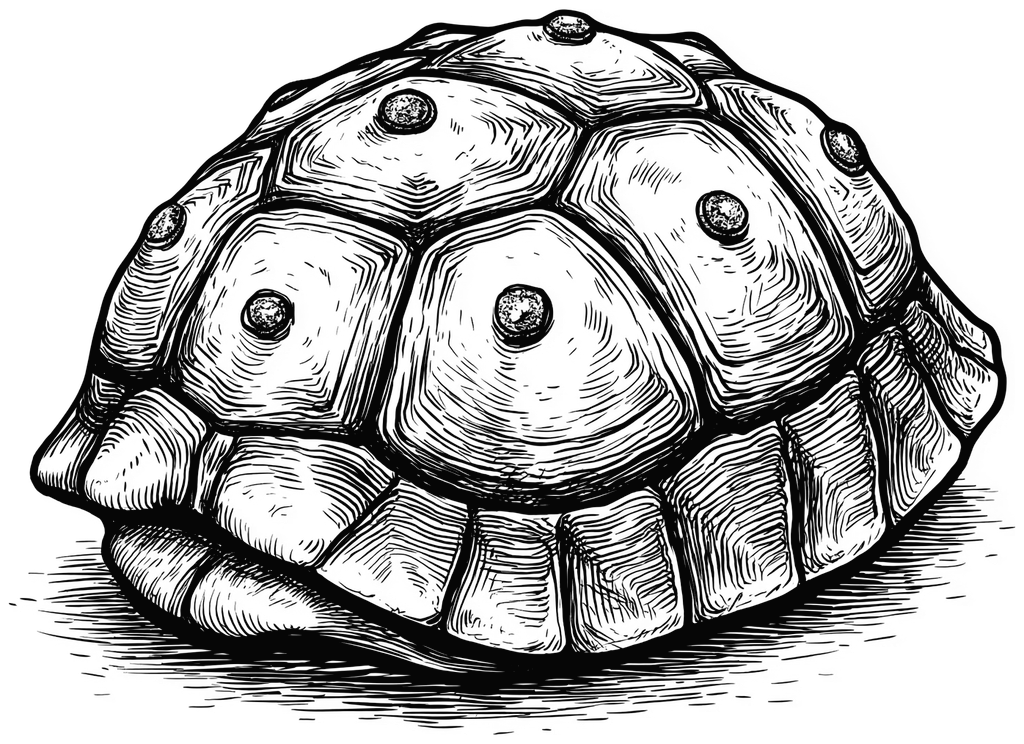
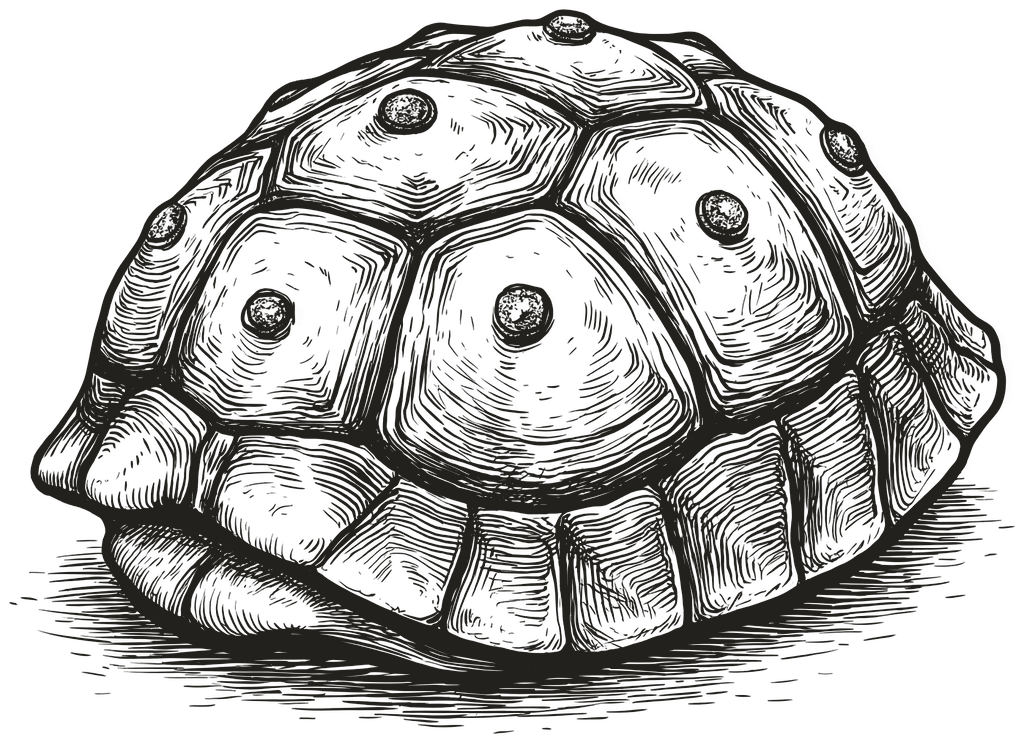
La cité ruinée, et la bavure grise ôtée des six gravures
LA BAVURE. Elle n'était pas normale, et elle venait de moi. Le script
maison tire l'alpha d'une amplitude fondée sur la MÉDIANE de l'encre de
la planche — 111 pour les colonnades, 68 pour la tour. C'est juste tant
qu'on garde l'encre décomposée, comme il le fait. Mais je reposais
ensuite une encre bien plus sombre, à 33 : les deux ne s'accordaient
plus, et tout le dégradé qui borde un trait s'assombrissait d'autant. Un
gris à 180 rendait 136, un gris à 140 rendait 76. C'est ce halo que l'œil
lit comme une bavure.

L'alpha se calcule désormais sur l'encre REPOSÉE. Mesuré sur la tour,
l'écart moyen au dessin d'origine tombe de plusieurs dizaines de niveaux
à UN. Les six planches du jour sont refaites par une chaîne unique :
pourtour rogné, papier ramené au blanc d'après son niveau dominant,
détourage, encre unique à la luminance 33.

LA CITÉ. Elle remplace les colonnades, qui passent en réserve après une
demi-journée. Une cité basse sur un horizon vide, sa fumée seule montant
dans le blanc : l'encre franche n'occupe que 1 510 sur 397 d'un cadre de
1 600 sur 1 194, et ce vide EST le propos. Elle prend donc toute la
mesure de la colonne.

La marge NÉGATIVE sous la gravure revient, pour la raison qui l'avait
fait naître : le quart inférieur du cadre est un sol presque vide, et le
texte doit se poser à la lisière du sol. Elle avait dû être ôtée le temps
des colonnades, qui descendaient au ras des pierres. Une marge négative
[…]

Changed region(s): [[0.0312, 0.0, 1.0, 0.9596]]

diff --git a/app/admin/illustrations/inventaire.ts b/app/admin/illustrations/inventaire.ts
@@ -119,7 +119,7 @@ export const ILLUSTRATIONS: Illustration[] = [
     lieu: { href: '/recherche', label: 'Recherche', repere: 'Au centre, sous la barre de recherche, tant qu’aucune requête n’est lancée.' },
     source: 'app/recherche/RechercheClient.tsx',
     traitement: { opacite: 0.92, ornement: true, largeur: 'au plus 51rem et 96 %, bornée en hauteur' },
-    note: 'A remplacé les cristaux le 2026-08-26. Elle reprend la pose de la tour de Babel sur le Polyglotte, et pour la même raison : sur PC cette colonne fait TOUTE la hauteur sous la navbar et se trouve entièrement vide, l’intitulé, la recherche et les onglets vivant dans le volet de gauche. C’est donc un écran d’attente et non un blanc de pied de page — même mesure, même opacité, même encre, même invite en sérif italique. Posée d’abord comme un cul-de-lampe discret en haut de la colonne, elle y flottait. ⚠ Le centrage vertical vient du flux, la zone étant de hauteur définie sur PC ; en mobile elle ne l’est pas et le groupe reprend des marges. Deux reprises sur l’ancienne pose : le mix-blend-mode était mort, la planche étant détourée, et la largeur de 300 px, absolue, ne suivait pas la police racine.',
+    note: 'A remplacé les cristaux. Elle reprend la pose de la tour de Babel sur le Polyglotte, et pour la même raison : sur PC cette colonne fait TOUTE la hauteur sous la navbar et se trouve entièrement vide, l’intitulé, la recherche et les onglets vivant dans le volet de gauche. C’est donc un écran d’attente et non un blanc de pied de page — même mesure, même opacité, même encre, même invite en sérif italique. ⚠ Le centrage vertical vient du flux, la zone étant de hauteur définie sur PC ; en mobile elle ne l’est pas et le groupe reprend des marges. Fabriquée par la chaîne commune aux gravures du 2026-08-26 : pourtour de la source rogné, papier ramené au blanc d’après son niveau DOMINANT, détourage, puis encre reposée en une teinte unique à la luminance 33, celle de la tour de Babel ruinée. ⚠ L’ALPHA se calcule sur l’encre REPOSÉE, non sur la médiane de la planche : les deux ne s’accordent plus dès qu’on repose une encre plus sombre, et tout le dégradé qui borde un trait s’assombrit alors — un gris à 180 rendait 136. Écart moyen au dessin d’origine ramené à 1 niveau.',
   },
 
   {
@@ -140,7 +140,7 @@ export const ILLUSTRATIONS: Illustration[] = [
     lieu: { href: '/oeuvre/A0010O0002', label: 'La Cité de Dieu', repere: 'Volet de droite, après avoir cliqué un paragraphe dépourvu de référence biblique.' },
     source: 'app/oeuvre/[id]/OeuvreClient.tsx',
     traitement: { opacite: 0.42, ornement: true, largeur: 'au plus 24rem et 88 %, bornée en hauteur' },
-    note: 'Répond à l’arbre ardent du même volet, dont elle reprend la planche, la mesure et l’opacité : les deux états du volet se ressemblent au lieu de se contredire. L’arbre est ici mort et le corbeau seul — l’absence se dit par l’image avant de se dire par la phrase. Le plafond de hauteur réserve 13,5 rem au lieu de 11,5 : le bouton de proposition se pose sous l’invite et sortirait de l’écran sur une fenêtre basse. Détourée par le script maison : encre médiane mesurée à 110, 10,4 % de pleins — le même taux que l’arbre ardent, ce qui n’est pas un hasard, les deux planches étant de la même main.',
+    note: 'Répond à l’arbre ardent du même volet, dont elle reprend la mesure : les deux états du volet se ressemblent au lieu de se contredire. L’arbre est ici mort et le corbeau seul — l’absence se dit par l’image avant de se dire par la phrase. Le plafond de hauteur réserve 13,5 rem au lieu de 11,5 : le bouton de proposition se pose sous l’invite et sortirait de l’écran sur une fenêtre basse. Fabriquée par la chaîne commune aux gravures du 2026-08-26 : pourtour de la source rogné, papier ramené au blanc d’après son niveau DOMINANT, détourage, puis encre reposée en une teinte unique à la luminance 33, celle de la tour de Babel ruinée. ⚠ L’ALPHA se calcule sur l’encre REPOSÉE, non sur la médiane de la planche : les deux ne s’accordent plus dès qu’on repose une encre plus sombre, et tout le dégradé qui borde un trait s’assombrit alors — un gris à 180 rendait 136. Écart moyen au dessin d’origine ramené à 1 niveau.',
   },
   {
     chemin: '/ornements/carapace-posee.png',
@@ -150,19 +150,20 @@ export const ILLUSTRATIONS: Illustration[] = [
     lieu: { href: '/?livre=NUM&chapitre=7&trad=TR0001', label: 'Nombres 7', repere: 'Volet des Pères, à droite. Ce chapitre est le plus long du corpus à n’avoir reçu aucun apparat : la gravure y tient seule la colonne.' },
     source: 'app/components/PanneauPatristique.tsx',
     traitement: { opacite: 0.42, ornement: true, largeur: 'au plus 20rem et 82 %, bornée en hauteur' },
-    note: 'Trois poses, une seule planche depuis le 2026-08-26 : les deux volets de commentaires — celui de la Bible et celui d’une œuvre, ce dernier dans app/oeuvre/[id]/OngletCommentaires.tsx — et le « Aucune occurrence » de l’apparat. Elle a remplacé la carapace couchée, qui disait la même absence sous un autre dessin selon la page où l’on se trouvait. Dans les deux volets de commentaires elle se pose au MILIEU de la zone défilante, en largeur comme en hauteur ; cette hauteur vient du flux, la zone étant déjà « flex: 1 », et non d’un calcul sur la fenêtre qui devrait deviner celle du formulaire. Sur « Aucune occurrence » elle reste dans le flux, sous les sous-onglets. Deux reprises au passage : le mix-blend-mode de la pose ancienne était mort, la planche étant détourée et l’opacité posée sur la même image annulant le mélange ; et sa largeur de 168 px, absolue, ne suivait pas la police racine, donc la gravure rapetissait à mesure que l’écran s’agrandissait. Détourée par le script maison : encre médiane mesurée à 15, donc gravure au trait franc, 21,8 % de pleins, encre reposée à la luminance 6, presque noire, parce que la décomposition par pixel vire au bruit sur un papier blanc pur. Le volet biblique la servait à 0,46 : les trois poses sont unifiées à 0,42, l’encre de cette planche étant bien plus dense que celle des gravures voisines.',
+    note: 'Trois poses, une seule planche : les deux volets de commentaires — celui de la Bible et celui d’une œuvre, ce dernier dans app/oeuvre/[id]/OngletCommentaires.tsx — et le « Aucune occurrence » de l’apparat. Elle a remplacé la carapace couchée, qui disait la même absence sous un autre dessin selon la page où l’on se trouvait. Dans les deux volets de commentaires elle se pose au MILIEU de la zone défilante, en largeur comme en hauteur ; cette hauteur vient du flux, la zone étant déjà « flex: 1 ». Sur « Aucune occurrence » elle reste dans le flux, sous les sous-onglets. Fabriquée par la chaîne commune aux gravures du 2026-08-26 : pourtour de la source rogné, papier ramené au blanc d’après son niveau DOMINANT, détourage, puis encre reposée en une teinte unique à la luminance 33, celle de la tour de Babel ruinée. ⚠ L’ALPHA se calcule sur l’encre REPOSÉE, non sur la médiane de la planche : les deux ne s’accordent plus dès qu’on repose une encre plus sombre, et tout le dégradé qui borde un trait s’assombrit alors — un gris à 180 rendait 136. Écart moyen au dessin d’origine ramené à 1 niveau.',
   },
 
   {
-    chemin: '/ornements/ruines-colonnades.png',
-    nom: 'Ruines fumantes',
+    chemin: '/ornements/cite-ruinee.png',
+    nom: 'Cité ruinée',
     fonction: 'blanc',
     emploi: 'Dit qu’une traduction ne comporte pas le livre demandé. Des ruines plutôt qu’un fleuron : l’ornement devait dire « il n’y a rien ici », non « fin de chapitre ».',
     lieu: { href: '/?livre=MAT&chapitre=1&trad=TR0005', label: 'Matthieu 1 dans la Septante', repere: 'Au tiers supérieur de la colonne de lecture : la Septante ne comporte aucun livre du Nouveau Testament.' },
     source: 'app/components/TexteBible.tsx',
-    traitement: { opacite: 0.92, ornement: true, largeur: 'au plus 34rem et 92 %, bornée en hauteur' },
-    note: 'A remplacé la planche carrée le 2026-08-26. Mesure, intensité et encre sont celles de la tour de Babel sur le Polyglotte : c’est un écran d’attente, non un blanc de pied de page, et la gravure doit s’y voir. ⚠ La légende reste au TIERS SUPÉRIEUR du bloc (charte) et non centrée dans le vide : c’est la seule chose que cette pose ne reprenne pas du Polyglotte. Elle a aussi perdu la marge NÉGATIVE qui la remontait, laquelle n’existait que parce que la planche carrée laissait du blanc sous des ruines posées haut. ⛔ Trois reprises que la charte réclamait : la pose passait par Image de Next, dont l’optimiseur aplatit parfois l’alpha sur du blanc et fait reparaître le fond ; le mix-blend-mode était mort, la planche étant détourée ; et la largeur de 190 px, absolue, ne suivait pas la police racine.',
+    traitement: { opacite: 0.92, ornement: true, largeur: 'au plus 38rem et 96 %, bornée en hauteur' },
+    note: 'Une cité basse sur un horizon vide, sa fumée seule montant dans le blanc : l’encre franche n’occupe que 1 510 sur 397 d’un cadre de 1 600 sur 1 194, et ce vide EST le propos. La marge négative sous la gravure revient pour cette raison, le quart inférieur du cadre étant un sol presque vide : le texte se pose à la lisière du sol plutôt que loin sous la planche. ⚠ Une marge négative se règle sur la COMPOSITION et ne se reconduit pas d’un dessin à l’autre — la planche intermédiaire de colonnades descendait au ras des pierres et l’avait fait ôter. ⛔ Trois reprises que la charte réclamait sur cette pose : elle passait par Image de Next, dont l’optimiseur aplatit parfois l’alpha sur du blanc et fait reparaître le fond ; le mix-blend-mode était mort, la planche étant détourée ; et la largeur de 190 px, absolue, ne suivait pas la police racine. Fabriquée par la chaîne commune aux gravures du 2026-08-26 : pourtour de la source rogné, papier ramené au blanc d’après son niveau DOMINANT, détourage, puis encre reposée en une teinte unique à la luminance 33, l’ALPHA étant calculé sur cette encre et non sur la médiane de la planche. Profil de gravure au trait : 87,1 % de transparents pour 11,1 % de partiels.',
   },
+
 
   {
     chemin: '/ornements/ordinateur-ardent.png',
@@ -172,7 +173,7 @@ export const ILLUSTRATIONS: Illustration[] = [
     lieu: { href: '/polyglotte', label: 'Polyglotte', repere: 'En pied du message, sur un écran de moins de 820 px de large. À voir en réduisant la fenêtre.' },
     source: 'app/polyglotte/page.tsx',
     traitement: { opacite: 0.92, ornement: true, largeur: 'au plus 16rem et 76 %, bornée en hauteur' },
-    note: 'A remplacé l’ordinateur de Pentecôte le 2026-08-26. Même propos : l’ordinateur sous les langues de feu, l’alpha et l’oméga sur le moniteur, la Polyglotte dite en une image. Intensité et encre sont celles de la tour de Babel, à l’autre bout de la même page : cet écran n’a lui non plus qu’une gravure pour tout contenu. ⚠ La planche est en HAUTEUR là où la précédente était en largeur, d’où un plafond de hauteur qui n’est pas décoratif : sur un téléphone bas, elle chasserait le texte hors de l’écran. Pourtour de la source rogné de 32 px avant traitement, faute de quoi le liseré sombre du bord devient une barre noire. Encre reposée à la luminance 33, contre 48 pour la planche brute. Elle pèse 278 Ko contre 530.',
+    note: 'A remplacé l’ordinateur de Pentecôte. Même propos : l’ordinateur sous les langues de feu, l’alpha et l’oméga sur le moniteur, la Polyglotte dite en une image. Intensité et encre sont celles de la tour de Babel, à l’autre bout de la même page : cet écran n’a lui non plus qu’une gravure pour tout contenu. ⚠ La planche est en HAUTEUR là où la précédente était en largeur, d’où un plafond de hauteur qui n’est pas décoratif : sur un téléphone bas, elle chasserait le texte hors de l’écran. Fabriquée par la chaîne commune aux gravures du 2026-08-26 : pourtour de la source rogné, papier ramené au blanc d’après son niveau DOMINANT, détourage, puis encre reposée en une teinte unique à la luminance 33, celle de la tour de Babel ruinée. ⚠ L’ALPHA se calcule sur l’encre REPOSÉE, non sur la médiane de la planche : les deux ne s’accordent plus dès qu’on repose une encre plus sombre, et tout le dégradé qui borde un trait s’assombrit alors — un gris à 180 rendait 136. Écart moyen au dessin d’origine ramené à 1 niveau.',
   },
 
 
@@ -185,7 +186,7 @@ export const ILLUSTRATIONS: Illustration[] = [
     lieu: { href: '/polyglotte', label: 'Polyglotte', repere: 'Au centre, tant qu’aucun livre n’est ouvert, sous l’invite « Ouvrez un livre ».' },
     source: 'app/polyglotte/page.tsx',
     traitement: { opacite: 0.92, ornement: true, largeur: 'au plus 51rem et 96 %, bornée en hauteur' },
-    note: 'A remplacé la tour intacte le 2026-08-26, sans que la pose change : deux maxima, aucune largeur posée. Elle pèse 406 Ko là où la précédente en pesait 2 114, qui était la plus lourde image servie du site, pour un simple écran d’attente. ⚠ Son détourage a demandé une normalisation préalable du papier : celui de cette planche est à 253, et ses seuls quatre COINS sont à 255 — or c’est aux coins que le script maison mesure le fond. Il tenait donc les 91 % de papier pour une encre très pâle, et rendait 87,8 % de partiels pour 6 % de transparents. Papier ramené au blanc avant détourage, elle rend 81,7 % de transparents pour 12,1 % de partiels, dans la bande de la gravure au trait. Encre mesurée et reposée à la luminance 33.',
+    note: 'A remplacé la tour intacte, sans que la pose change : deux maxima, aucune largeur posée. Elle pèse le quart des 2 114 Ko de la précédente, qui était la plus lourde image servie du site pour un simple écran d’attente. Fabriquée par la chaîne commune aux gravures du 2026-08-26 : pourtour de la source rogné, papier ramené au blanc d’après son niveau DOMINANT, détourage, puis encre reposée en une teinte unique à la luminance 33, celle de la tour de Babel ruinée. ⚠ L’ALPHA se calcule sur l’encre REPOSÉE, non sur la médiane de la planche : les deux ne s’accordent plus dès qu’on repose une encre plus sombre, et tout le dégradé qui borde un trait s’assombrit alors — un gris à 180 rendait 136. Écart moyen au dessin d’origine ramené à 1 niveau.',
   },
 
   {
@@ -416,6 +417,12 @@ export const ILLUSTRATIONS: Illustration[] = [
     nom: 'Ordinateur de Pentecôte',
     fonction: 'reserve',
     emploi: 'Fermait le message d’écran large de la Polyglotte jusqu’au 2026-08-26, où l’ordinateur ardent a pris sa place.',
+  },
+  {
+    chemin: '/ornements/ruines-colonnades.png',
+    nom: 'Colonnades en ruine',
+    fonction: 'reserve',
+    emploi: 'Disait le livre absent d’une traduction le 2026-08-26, entre la planche carrée et la cité ruinée qui a pris sa place le même jour.',
   },
   {
     chemin: '/ornements/cul-de-lampe-buisson-ardent.png',

diff --git a/app/components/TexteBible.tsx b/app/components/TexteBible.tsx
@@ -596,12 +596,15 @@ export default function TexteBible({
                   valeur absolue, qui ne suivait pas la police racine. Le plafond de hauteur
                   vaut pour les fenêtres BASSES : la planche est un panorama, et sa hauteur y
                   chasserait la légende sous le pli. */}
-              <img className="cs-ornement" src="/ornements/ruines-colonnades.png" alt="" aria-hidden="true"
-                style={{ maxWidth: 'min(34rem, 92%)', maxHeight: 'calc(100dvh - 3.5rem - 14rem)', opacity: 0.92 }} />
-              {/* ⚠ Plus de marge NÉGATIVE sous la gravure. Elle existait parce que la planche
-                  carrée laissait du blanc sous des ruines posées haut ; celle-ci descend au ras
-                  du sol, et le texte viendrait se poser dans les pierres. */}
-              <p style={{ fontFamily: "var(--font-source-serif), Georgia, serif", fontSize: '0.8125rem', fontStyle: 'italic', color: 'var(--cs-texte-doux)', textAlign: 'center', lineHeight: 1.65, margin: '14px 0 0', maxWidth: '21.25rem' }}>
+              <img className="cs-ornement" src="/ornements/cite-ruinee.png" alt="" aria-hidden="true"
+                style={{ maxWidth: 'min(38rem, 96%)', maxHeight: 'calc(100dvh - 3.5rem - 14rem)', opacity: 0.92 }} />
+              {/* La marge NÉGATIVE revient, et pour la raison qui l'avait fait naître : la cité
+                  repose bas dans son cadre, dont le quart inférieur est un sol presque vide. Le
+                  texte vient ainsi se poser à la lisière du sol plutôt que loin sous la planche.
+                  ⚠ Elle avait dû être ôtée le temps d'une planche intermédiaire, qui descendait
+                  au ras des pierres : une marge négative se règle sur la COMPOSITION, elle ne se
+                  reconduit pas d'un dessin à l'autre. */}
+              <p style={{ fontFamily: "var(--font-source-serif), Georgia, serif", fontSize: '0.8125rem', fontStyle: 'italic', color: 'var(--cs-texte-doux)', textAlign: 'center', lineHeight: 1.65, margin: '-24px 0 0', maxWidth: '21.25rem' }}>
                 La traduction <em style={{ fontStyle: 'normal', color: 'var(--cs-texte-second)' }}>{traductionLabel}</em> ne comporte pas ce livre.
               </p>
             </div>
